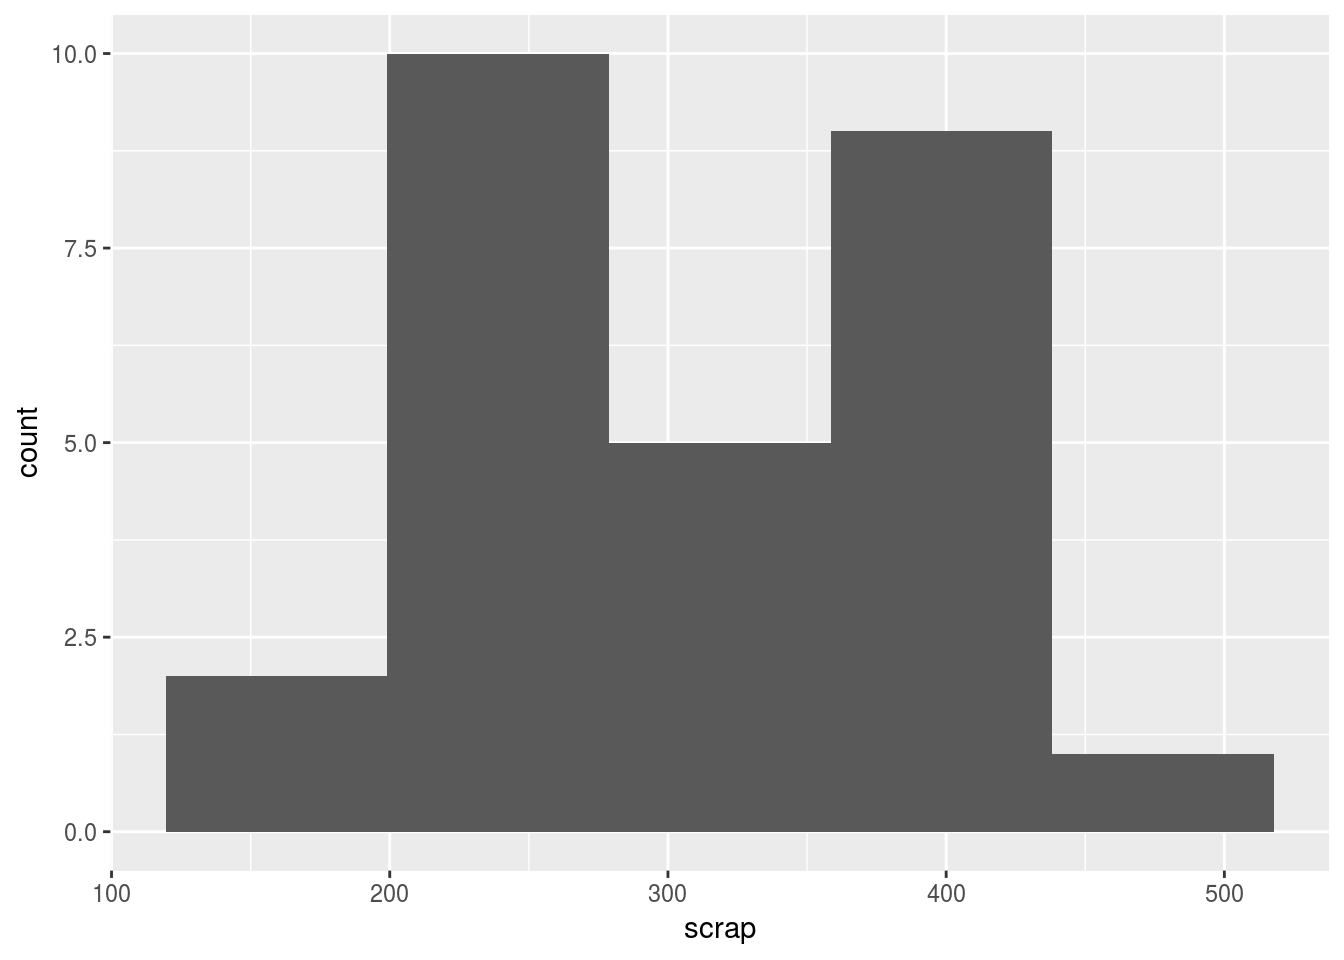
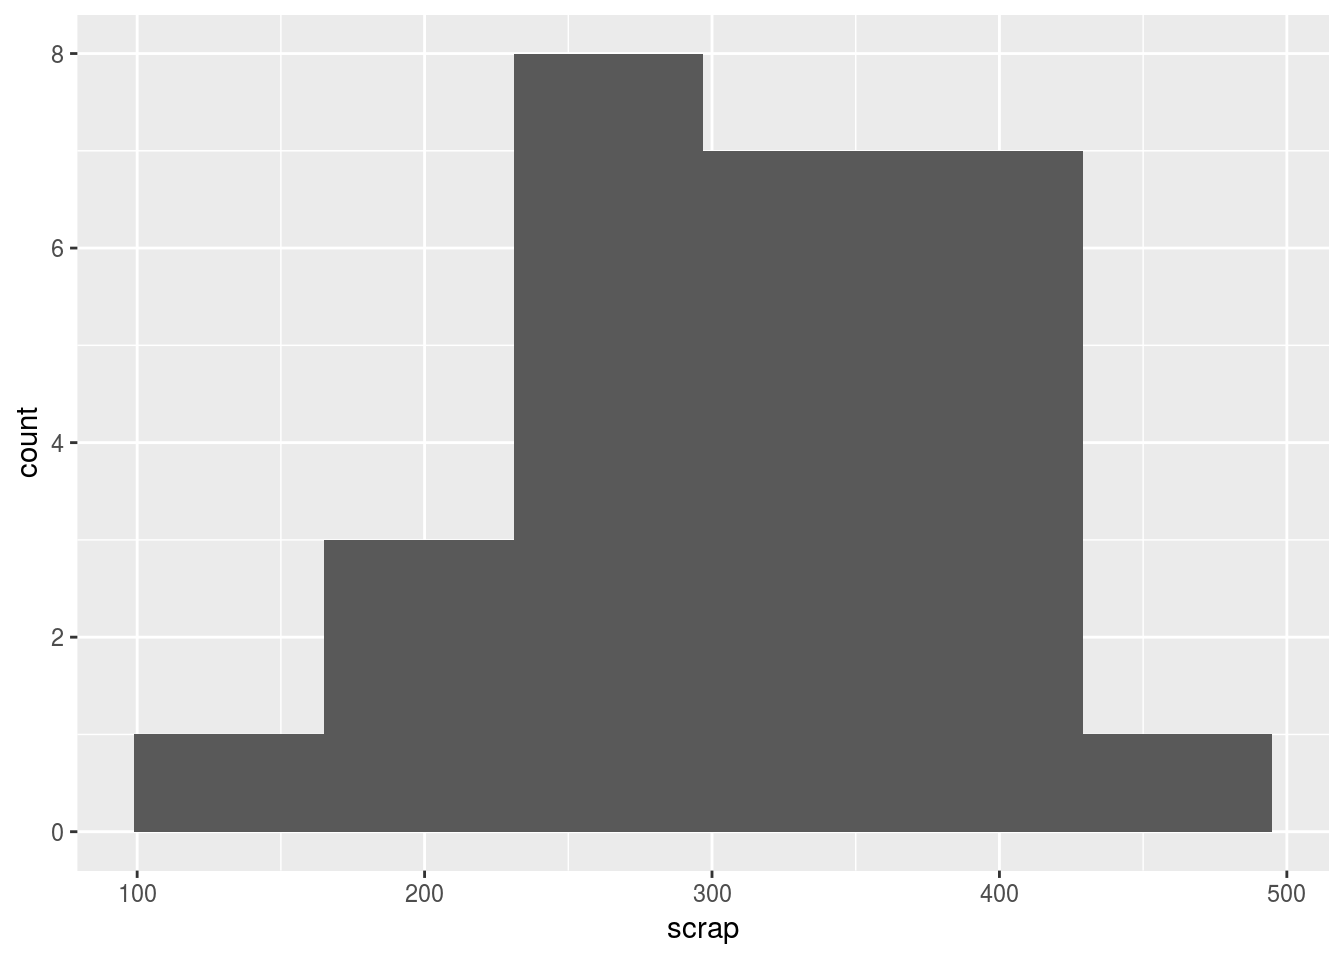
various edits

diff --git a/docs/2017/06/08/histograms-and-bins/index.html b/docs/2017/06/08/histograms-and-bins/index.html
@@ -80,7 +80,8 @@
 <pre><code>## Conflicts with tidy packages ----------------------------------------------</code></pre>
 <pre><code>## filter(): dplyr, stats
 ## lag():    dplyr, stats</code></pre>
-<pre class="r"><code>soap=read_delim(&quot;soap.txt&quot;,&quot; &quot;)</code></pre>
+<pre class="r"><code>myurl=&quot;http://www.utsc.utoronto.ca/~butler/c32/soap.txt&quot;
+soap=read_delim(myurl,&quot; &quot;)</code></pre>
 <pre><code>## Parsed with column specification:
 ## cols(
 ##   case = col_integer(),
@@ -107,8 +108,8 @@
 <p>I’ve almost forgotten how to make a base R histogram, but I think it goes like this:</p>
 <pre class="r"><code>hist(soap$scrap)</code></pre>
 <p><img src="../../../../post/2017-06-08-histograms-and-bins_files/figure-html/unnamed-chunk-2-1.png" width="672" /></p>
-<p>This uses eight bins, with a bin width of 50. (I think the focus in base R was to choose a “pretty” bin width, so that the bin boundaries come in nice places.)</p>
-<p>In <code>ggplot</code>, you have to specify the number of bins yourself (or the bin width). I was looking in the help for <code>geom_histogram</code> to find out why, and I learned that Hadley Wickham is opposed to automatic selection of number of bins. In <a href="http://ggplot2.tidyverse.org/reference/geom_histogram.html">the help file</a>, it says, in the help for <code>binwidth</code>:</p>
+<p>This uses eight bins, with a bin width of 50. (I think the focus in base R was to choose bin boundaries that come in nice places, with the default being to use Sturges’ rule (below) to get the number of bins.)</p>
+<p>In <code>ggplot</code>, you have to specify the number of bins yourself (or the bin width). I was looking in the help for <code>geom_histogram</code> to find out why, and I learned that Hadley Wickham is opposed to automatic selection of number of bins. In <a href="http://ggplot2.tidyverse.org/reference/geom_histogram.html">the help file under <code>binwidth</code></a>, it says:</p>
 <blockquote>
 <p>You should always override this value, exploring multiple widths to find the best to illustrate the stories in your data.</p>
 </blockquote>
@@ -159,19 +160,27 @@ sturges(soap$scrap)</code></pre>
 
 fd(soap$scrap)</code></pre>
 <pre><code>## [1] 79.66667</code></pre>
-<p>What <code>geom_histogram</code> will let you do is to supply a <em>function</em> to <code>bins</code> or <code>binwidth</code>, so that if you want to use Sturges or Freedman-Diaconis as a default, you can do so:</p>
-<pre class="r"><code>ggplot(soap,aes(x=scrap))+geom_histogram(bins=sturges(soap$scrap))</code></pre>
+<p>What <code>geom_histogram</code> claims to let you do is to supply a <em>function</em> to <code>binwidth</code> (though not <code>bins</code>, far as I can tell). I couldn’t get this to work:</p>
+<pre class="r"><code>ggplot(soap,aes(x=scrap))+geom_histogram(binwidth=fd)</code></pre>
+<pre><code>## Warning: Computation failed in `stat_bin()`:
+## is.numeric(width) is not TRUE</code></pre>
 <p><img src="../../../../post/2017-06-08-histograms-and-bins_files/figure-html/unnamed-chunk-10-1.png" width="672" /></p>
-<p>or</p>
-<pre class="r"><code>ggplot(soap,aes(x=scrap))+geom_histogram(binwidth=fd(soap$scrap))</code></pre>
+<p>I welcome comment on how to do this.</p>
+<p>To use Sturges or Freedman-Diaconis as a default, you can do something like this:</p>
+<pre class="r"><code>k=sturges(soap$scrap)
+ggplot(soap,aes(x=scrap))+geom_histogram(bins=k)</code></pre>
 <p><img src="../../../../post/2017-06-08-histograms-and-bins_files/figure-html/unnamed-chunk-11-1.png" width="672" /></p>
-<p>You can even go a stage further, because these functions are hidden in R:</p>
+<p>or</p>
+<pre class="r"><code>h=fd(soap$scrap)
+ggplot(soap,aes(x=scrap))+geom_histogram(binwidth=h)</code></pre>
+<p><img src="../../../../post/2017-06-08-histograms-and-bins_files/figure-html/unnamed-chunk-12-1.png" width="672" /></p>
+<p>You don’t even have to write the functions yourself, because these can be found in R (from looking at the help for <code>hist</code>):</p>
 <pre class="r"><code>nclass.Sturges(soap$scrap)</code></pre>
 <pre><code>## [1] 6</code></pre>
 <pre class="r"><code>nclass.FD(soap$scrap)</code></pre>
 <pre><code>## [1] 5</code></pre>
 <p>Note that this version of Freedman-Diaconis gives you a number of bins rather than a bin width.</p>
-<p>Perhaps the moral of this story is that the look of a histogram can be very different depending on the number of bins or the bin width that you choose. So maybe Hadley Wickham was right after all.</p>
+<p>Perhaps the moral of this story is that the look of a histogram can be very different depending on the number of bins or the bin width that you choose. So maybe Hadley Wickham was right after all. But I still think it’s good to have a place to start from, and <code>nclass.Sturges</code> or <code>nclass.FD</code> will do that.</p>
 
     </div>
   </article>

diff --git a/content/post/2017-06-08-histograms-and-bins.html b/content/post/2017-06-08-histograms-and-bins.html
@@ -22,7 +22,8 @@ tags:
 <pre><code>## Conflicts with tidy packages ----------------------------------------------</code></pre>
 <pre><code>## filter(): dplyr, stats
 ## lag():    dplyr, stats</code></pre>
-<pre class="r"><code>soap=read_delim(&quot;soap.txt&quot;,&quot; &quot;)</code></pre>
+<pre class="r"><code>myurl=&quot;http://www.utsc.utoronto.ca/~butler/c32/soap.txt&quot;
+soap=read_delim(myurl,&quot; &quot;)</code></pre>
 <pre><code>## Parsed with column specification:
 ## cols(
 ##   case = col_integer(),
@@ -49,8 +50,8 @@ tags:
 <p>I’ve almost forgotten how to make a base R histogram, but I think it goes like this:</p>
 <pre class="r"><code>hist(soap$scrap)</code></pre>
 <p><img src="/post/2017-06-08-histograms-and-bins_files/figure-html/unnamed-chunk-2-1.png" width="672" /></p>
-<p>This uses eight bins, with a bin width of 50. (I think the focus in base R was to choose a “pretty” bin width, so that the bin boundaries come in nice places.)</p>
-<p>In <code>ggplot</code>, you have to specify the number of bins yourself (or the bin width). I was looking in the help for <code>geom_histogram</code> to find out why, and I learned that Hadley Wickham is opposed to automatic selection of number of bins. In <a href="http://ggplot2.tidyverse.org/reference/geom_histogram.html">the help file</a>, it says, in the help for <code>binwidth</code>:</p>
+<p>This uses eight bins, with a bin width of 50. (I think the focus in base R was to choose bin boundaries that come in nice places, with the default being to use Sturges’ rule (below) to get the number of bins.)</p>
+<p>In <code>ggplot</code>, you have to specify the number of bins yourself (or the bin width). I was looking in the help for <code>geom_histogram</code> to find out why, and I learned that Hadley Wickham is opposed to automatic selection of number of bins. In <a href="http://ggplot2.tidyverse.org/reference/geom_histogram.html">the help file under <code>binwidth</code></a>, it says:</p>
 <blockquote>
 <p>You should always override this value, exploring multiple widths to find the best to illustrate the stories in your data.</p>
 </blockquote>
@@ -101,16 +102,24 @@ sturges(soap$scrap)</code></pre>
 
 fd(soap$scrap)</code></pre>
 <pre><code>## [1] 79.66667</code></pre>
-<p>What <code>geom_histogram</code> will let you do is to supply a <em>function</em> to <code>bins</code> or <code>binwidth</code>, so that if you want to use Sturges or Freedman-Diaconis as a default, you can do so:</p>
-<pre class="r"><code>ggplot(soap,aes(x=scrap))+geom_histogram(bins=sturges(soap$scrap))</code></pre>
+<p>What <code>geom_histogram</code> claims to let you do is to supply a <em>function</em> to <code>binwidth</code> (though not <code>bins</code>, far as I can tell). I couldn’t get this to work:</p>
+<pre class="r"><code>ggplot(soap,aes(x=scrap))+geom_histogram(binwidth=fd)</code></pre>
+<pre><code>## Warning: Computation failed in `stat_bin()`:
+## is.numeric(width) is not TRUE</code></pre>
 <p><img src="/post/2017-06-08-histograms-and-bins_files/figure-html/unnamed-chunk-10-1.png" width="672" /></p>
-<p>or</p>
-<pre class="r"><code>ggplot(soap,aes(x=scrap))+geom_histogram(binwidth=fd(soap$scrap))</code></pre>
+<p>I welcome comment on how to do this.</p>
+<p>To use Sturges or Freedman-Diaconis as a default, you can do something like this:</p>
+<pre class="r"><code>k=sturges(soap$scrap)
+ggplot(soap,aes(x=scrap))+geom_histogram(bins=k)</code></pre>
 <p><img src="/post/2017-06-08-histograms-and-bins_files/figure-html/unnamed-chunk-11-1.png" width="672" /></p>
-<p>You can even go a stage further, because these functions are hidden in R:</p>
+<p>or</p>
+<pre class="r"><code>h=fd(soap$scrap)
+ggplot(soap,aes(x=scrap))+geom_histogram(binwidth=h)</code></pre>
+<p><img src="/post/2017-06-08-histograms-and-bins_files/figure-html/unnamed-chunk-12-1.png" width="672" /></p>
+<p>You don’t even have to write the functions yourself, because these can be found in R (from looking at the help for <code>hist</code>):</p>
 <pre class="r"><code>nclass.Sturges(soap$scrap)</code></pre>
 <pre><code>## [1] 6</code></pre>
 <pre class="r"><code>nclass.FD(soap$scrap)</code></pre>
 <pre><code>## [1] 5</code></pre>
 <p>Note that this version of Freedman-Diaconis gives you a number of bins rather than a bin width.</p>
-<p>Perhaps the moral of this story is that the look of a histogram can be very different depending on the number of bins or the bin width that you choose. So maybe Hadley Wickham was right after all.</p>
+<p>Perhaps the moral of this story is that the look of a histogram can be very different depending on the number of bins or the bin width that you choose. So maybe Hadley Wickham was right after all. But I still think it’s good to have a place to start from, and <code>nclass.Sturges</code> or <code>nclass.FD</code> will do that.</p>
